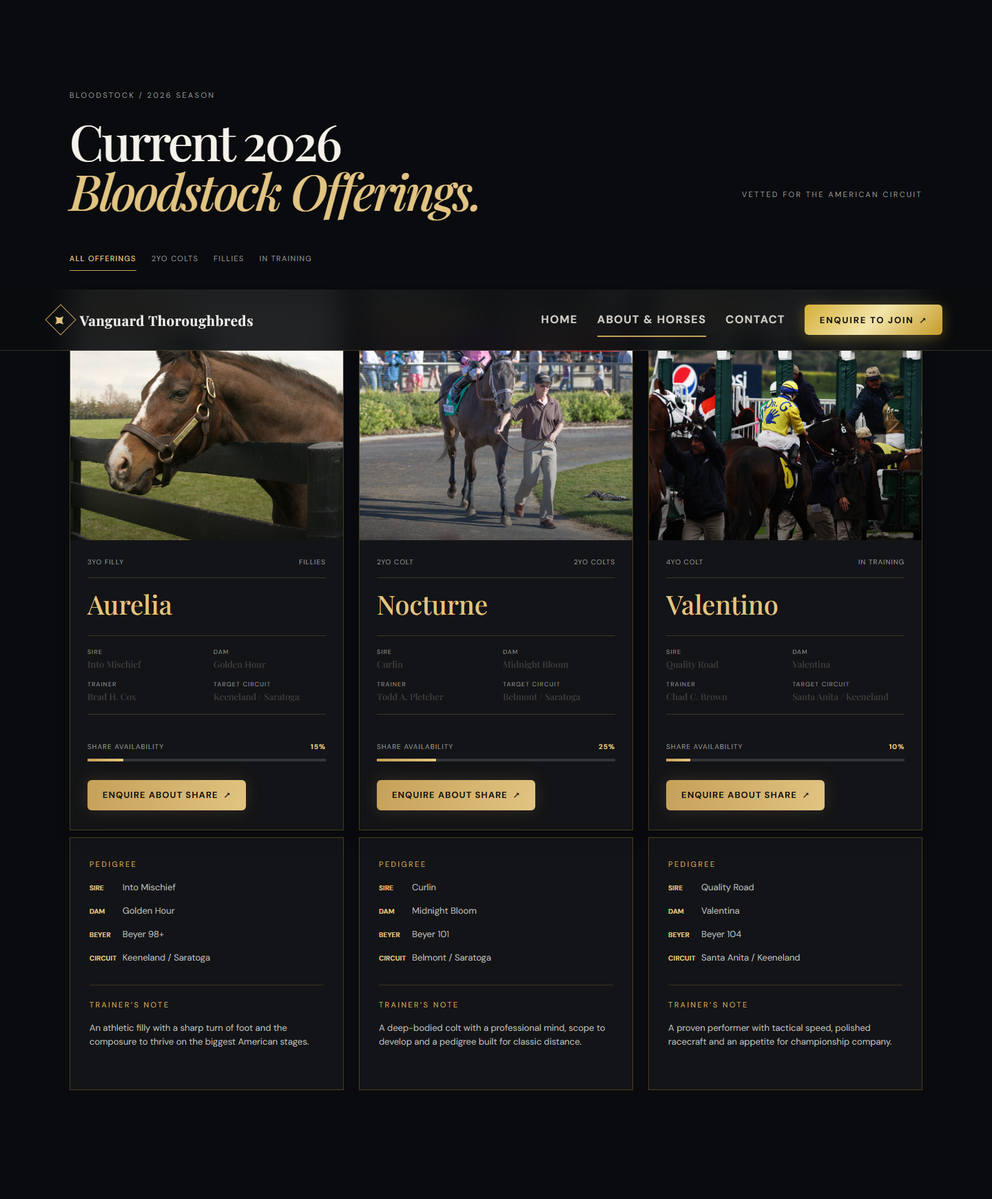
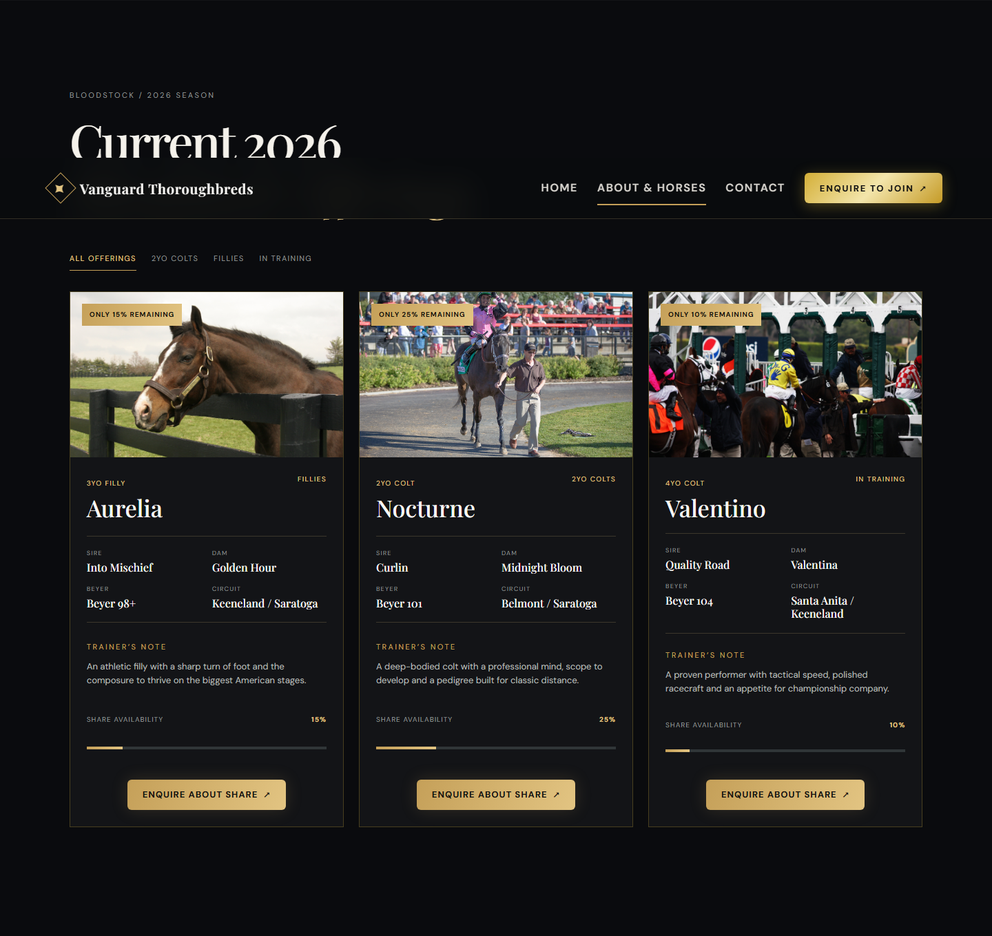
Fix About horse cards and add smart contact intent flow

diff --git a/contact.html b/contact.html
@@ -2,10 +2,15 @@
 <html lang="en">
 <head><meta charset="utf-8"><meta name="viewport" content="width=device-width, initial-scale=1"><title>Private Prospectus — Vanguard Thoroughbreds</title><meta name="description" content="Request a private Vanguard Thoroughbreds syndicate prospectus."><link rel="preconnect" href="https://fonts.googleapis.com"><link rel="preconnect" href="https://fonts.gstatic.com" crossorigin><link href="https://fonts.googleapis.com/css2?family=DM+Sans:wght@400;500;600&family=Playfair+Display:ital,wght@0,500;1,500&display=swap" rel="stylesheet"><link rel="stylesheet" href="styles.css"><link rel="stylesheet" href="styles-enhancements.css"></head>
 <body data-page="contact">
-<nav class="nav"><a class="logo" href="index.html"><span class="logo-mark"><span>✦</span></span><span data-brand>Vanguard Thoroughbreds</span></a><div class="nav-links"><a href="index.html">Home</a><a href="about.html">About & Horses</a><a class="active" aria-current="page" href="contact.html">Contact</a><a class="button" href="contact.html">Enquire to Join <span>↗</span></a></div></nav>
-<main class="contact-layout"><section class="contact-copy"><p class="eyebrow">The private concierge</p><h1>Request Your Private<br><em>Syndicate Prospectus.</em></h1><p>Tell us what you are looking for. A member of the Vanguard team will reply personally, usually within one working day.</p><div class="contact-details"><p><span>Email</span><a data-email></a></p><p><span>Telephone</span><a data-phone></a></p><p><span>By appointment</span><span data-location></span></p></div><div class="contact-hero"><img data-contact-hero alt="Thoroughbred in the stable yard" loading="eager"></div><div class="membership-panel"><p class="eyebrow">Private membership tiers</p><div class="membership-grid"><article><strong>5%</strong><span>Entry Partner</span><small>Paddock credentials · Monthly reports</small></article><article class="featured"><strong>10%</strong><span>Classic Partner</span><small>Morning works · Trainer briefings</small></article><article><strong>25%</strong><span>Principal Partner</span><small>Breeding rights · Private access</small></article></div></div><div class="viewings"><p class="eyebrow">Private stable viewing</p><div><span>KEENELAND</span><strong>APR 18–20 · 7:00 AM</strong></div><div><span>SARATOGA SPRINGS</span><strong>JUL 22–24 · BY APPOINTMENT</strong></div></div><div class="faq"><h2>Questions, answered.</h2><div data-faqs></div></div></section>
-<section class="form-card"><p class="eyebrow">Start your ownership story</p><h2>Request your prospectus</h2><form id="enquiry-form" method="POST" novalidate><input type="hidden" name="_subject" value="New Vanguard Thoroughbreds prospectus request"><div class="form-grid"><div class="field"><label for="name">Full name</label><input id="name" name="name" autocomplete="name" required></div><div class="field"><label for="email">Email address</label><input id="email" name="email" type="email" autocomplete="email" required></div></div><div class="field"><label for="phone">Phone number</label><input id="phone" name="phone" type="tel" autocomplete="tel" required></div><div class="field"><label for="share">Preferred share size</label><select id="share" name="share" required><option value="">Select a share tier</option><option>5% — Entry</option><option>10% — Classic</option><option>25% — Principal</option></select></div><div class="field"><label for="interest">Horse of interest</label><select id="interest" name="interest" data-horse-options required></select></div><button class="submit" type="submit">Send private enquiry <span>↗</span></button><p class="status" id="form-status" role="status"></p><p class="fine-print">Your details are treated with complete discretion.</p></form></section></main>
+<nav class="nav"><a class="logo" href="index.html"><span class="logo-mark"><span>✦</span></span><span data-brand>Vanguard Thoroughbreds</span></a><div class="nav-links"><a href="index.html">Home</a><a href="about.html">About & Horses</a><a class="active" aria-current="page" href="contact.html">Contact</a><a class="button" href="contact.html?intent=join">Enquire to Join <span>↗</span></a></div></nav>
+<main class="contact-layout"><section class="contact-copy"><p class="eyebrow" data-contact-eyebrow>The private concierge</p><h1 data-contact-headline>Request Your Private<br><em>Syndicate Prospectus.</em></h1><p data-contact-intro>Tell us what you are looking for. A member of the Vanguard team will reply personally, usually within one working day.</p><div class="contact-details"><p><span>Email</span><a data-email></a></p><p><span>Telephone</span><a data-phone></a></p><p><span>By appointment</span><span data-location></span></p></div><div class="contact-hero"><img data-contact-hero alt="Thoroughbred in the stable yard" loading="eager"></div><div class="membership-panel"><p class="eyebrow">Private membership tiers</p><div class="membership-grid"><article><strong>5%</strong><span>Entry Partner</span><small>Paddock credentials · Monthly reports</small></article><article class="featured"><strong>10%</strong><span>Classic Partner</span><small>Morning works · Trainer briefings</small></article><article><strong>25%</strong><span>Principal Partner</span><small>Breeding rights · Private access</small></article></div></div><div class="viewings"><p class="eyebrow">Private stable viewing</p><div><span>KEENELAND</span><strong>APR 18–20 · 7:00 AM</strong></div><div><span>SARATOGA SPRINGS</span><strong>JUL 22–24 · BY APPOINTMENT</strong></div></div><div class="faq"><h2>Questions, answered.</h2><div data-faqs></div></div></section>
+<section class="form-card"><div class="join-selector" data-join-selector hidden><p class="eyebrow">Step 1: Select Share Tier &amp; Bloodstock</p><div class="join-options"><button type="button" data-tier="5% Share — $12,500">5% Share — $12,500</button><button type="button" data-tier="10% Share — $25,000">10% Share — $25,000</button><button type="button" data-tier="25% Share — $62,500">25% Share — $62,500</button></div></div><p class="eyebrow">Start your ownership story</p><h2 data-form-heading>Request your prospectus</h2><form id="enquiry-form" method="POST" novalidate><input type="hidden" name="_subject" value="New Vanguard Thoroughbreds prospectus request"><div class="form-grid"><div class="field"><label for="name">Full name</label><input id="name" name="name" autocomplete="name" required></div><div class="field"><label for="email">Email address</label><input id="email" name="email" type="email" autocomplete="email" required></div></div><div class="field"><label for="phone">Phone number</label><input id="phone" name="phone" type="tel" autocomplete="tel" required></div><div class="field"><label for="share">Preferred share size</label><select id="share" name="share" required><option value="">Select a share tier</option><option value="5% — $12,500">5% — $12,500</option><option value="10% — $25,000">10% — $25,000</option><option value="25% — $62,500">25% — $62,500</option></select></div><div class="field"><label for="interest">Horse of interest</label><select id="interest" name="interest" data-horse-options required></select></div><button class="submit" type="submit">Send private enquiry <span>↗</span></button><p class="status" id="form-status" role="status"></p><p class="fine-print">Your details are treated with complete discretion.</p></form></section></main>
 <footer class="footer"><span>© 2026 <span data-brand>Vanguard Thoroughbreds</span></span><span>Ownership, elevated.</span><a href="index.html">Return home ↗</a></footer>
 <script src="site-content.js"></script><script>
-const config=window.SYNDICATE_CONFIG,form=document.getElementById("enquiry-form"),status=document.getElementById("form-status"),interest=document.getElementById("interest"),horse=new URLSearchParams(location.search).get("horse");if(horse)interest.value=horse;form.action=`https://formsubmit.co/${config.contact.email}`;form.addEventListener("submit",(event)=>{event.preventDefault();status.className="status";const empty=[...form.querySelectorAll("[required]")].find((field)=>!field.value.trim()),email=document.getElementById("email");if(empty){status.textContent=`Please add your ${empty.labels[0].textContent.toLowerCase()}.`;status.classList.add("error");empty.focus();return;}if(!/^[^\s@]+@[^\s@]+\.[^\s@]+$/.test(email.value)){status.textContent="Please enter a valid email address.";status.classList.add("error");email.focus();return;}status.textContent="Sending your private enquiry…";fetch(form.action,{method:"POST",body:new FormData(form),headers:{Accept:"application/json"}}).then((response)=>{if(!response.ok)throw new Error("Unable to send");status.textContent="Thank you — your enquiry is on its way.";status.classList.add("success");form.reset();}).catch(()=>{const data=[...new FormData(form)].map(([key,value])=>`${key}: ${value}`).join("%0A");window.location.href=`mailto:${config.contact.email}?subject=New enquiry from ${encodeURIComponent(document.getElementById("name").value)}&body=${data}`;status.textContent="Opening your email app to complete the enquiry.";status.classList.add("success");});});
+const config=window.SYNDICATE_CONFIG,form=document.getElementById("enquiry-form"),status=document.getElementById("form-status"),interest=document.getElementById("interest"),params=new URLSearchParams(location.search),isJoin=params.get("intent")==="join",horse=params.get("horse"),navContact=document.querySelector('.nav a[href="contact.html"]'),joinSelector=document.querySelector("[data-join-selector]"),share=document.getElementById("share"),formHeading=document.querySelector("[data-form-heading]"),eyebrow=document.querySelector("[data-contact-eyebrow]"),headline=document.querySelector("[data-contact-headline]"),intro=document.querySelector("[data-contact-intro]"),submit=form.querySelector(".submit");
+if(isJoin){navContact.classList.remove("active");navContact.removeAttribute("aria-current");document.querySelector(".nav .button").classList.add("join-active");joinSelector.hidden=false;eyebrow.textContent="2026 Syndicate Admissions";headline.innerHTML="Apply for Syndicate<br><em>Ownership.</em>";intro.textContent="Select your share tier and bloodstock preference, then submit your private ownership application.";formHeading.textContent="Ownership application";submit.innerHTML="Submit ownership application <span>↗</span>";}
+if(horse)interest.value=horse;
+form.action=`https://formsubmit.co/${config.contact.email}`;
+joinSelector.querySelectorAll("[data-tier]").forEach((button)=>button.addEventListener("click",()=>{joinSelector.querySelectorAll("[data-tier]").forEach((item)=>item.classList.remove("selected"));button.classList.add("selected");const value=button.dataset.tier;share.value=value.split(" Share")[0]+" — "+value.split("— ")[1];}));
+form.addEventListener("submit",(event)=>{event.preventDefault();status.className="status";const empty=[...form.querySelectorAll("[required]")].find((field)=>!field.value.trim()),email=document.getElementById("email");if(empty){status.textContent=`Please add your ${empty.labels[0].textContent.toLowerCase()}.`;status.classList.add("error");empty.focus();return;}if(!/^[^\s@]+@[^\s@]+\.[^\s@]+$/.test(email.value)){status.textContent="Please enter a valid email address.";status.classList.add("error");email.focus();return;}status.textContent="Sending your private enquiry…";fetch(form.action,{method:"POST",body:new FormData(form),headers:{Accept:"application/json"}}).then((response)=>{if(!response.ok)throw new Error("Unable to send");status.textContent="Thank you — your enquiry is on its way.";status.classList.add("success");form.reset();}).catch(()=>{const data=[...new FormData(form)].map(([key,value])=>`${key}: ${value}`).join("%0A");window.location.href=`mailto:${config.contact.email}?subject=New enquiry from ${encodeURIComponent(document.getElementById("name").value)}&body=${data}`;status.textContent="Opening your email app to complete the enquiry.";status.classList.add("success");});});
 </script></body></html>

diff --git a/index.html b/index.html
@@ -3,9 +3,9 @@
 <head><meta charset="utf-8"><meta name="viewport" content="width=device-width, initial-scale=1"><title>Vanguard Thoroughbreds — Command the Rail.</title><meta name="description" content="Direct fractional ownership in elite Grade-1 caliber Thoroughbreds with Vanguard Thoroughbreds."><link rel="stylesheet" href="styles.css"></head>
 <body class="intro-active" data-page="home">
 <div id="race-intro-overlay" aria-label="Vanguard 2026 race introduction"><canvas id="race-canvas"></canvas><div class="intro-grid"></div><div class="intro-wordmark">VANGUARD</div><div class="intro-label">VANGUARD THOROUGHBREDS / 2026</div><button class="intro-button" id="skip-intro">Skip</button><div class="finish-line"><span>PHOTO FINISH<br>// VANGUARD 2026</span></div><div class="race-horse-trail"></div><div class="race-horse-shell"><img class="race-horse" src="images/golden-jockey-horse.png" alt="" aria-hidden="true"></div><div class="intro-telemetry">SPEED: 41.8 MPH&nbsp;&nbsp; | &nbsp;&nbsp;STRIDE: 24.6 FT&nbsp;&nbsp; | &nbsp;&nbsp;FINISH: 1ST</div></div>
-<nav class="site-nav"><a class="brand-lockup" href="index.html"><span class="crest"><span class="crest-mark">V</span></span><span class="brand-name" data-brand>Vanguard Thoroughbreds</span></a><div class="nav-links"><a class="active" href="index.html">Home</a><a href="about.html">About & Horses</a><a href="contact.html">Contact</a><a class="nav-cta" href="contact.html">Enquire to Join <span>↗</span></a></div></nav>
+<nav class="site-nav"><a class="brand-lockup" href="index.html"><span class="crest"><span class="crest-mark">V</span></span><span class="brand-name" data-brand>Vanguard Thoroughbreds</span></a><div class="nav-links"><a class="active" href="index.html">Home</a><a href="about.html">About & Horses</a><a href="contact.html">Contact</a><a class="nav-cta" href="contact.html?intent=join">Enquire to Join <span>↗</span></a></div></nav>
 <main>
-<section class="hero"><div class="hero-copy"><span class="status-pill">2026 Syndicate Shares Live</span><h1 data-home-headline>Command the Rail.<br><em>Own the Legacy.</em></h1><p class="intro" data-home-intro>Direct fractional ownership in elite Grade-1 caliber Thoroughbreds. Curated bloodlines, Hall-of-Fame trainers, and full paddock-to-winner's-circle access.</p><div class="hero-actions"><a class="button" href="contact.html">Enquire to Join <span>↗</span></a><a class="outline-button" href="#command">Enter Command Dashboard <span>↓</span></a></div></div><div class="hero-visual"><div class="hero-frame"><img data-hero-image src="images/hero-racehorse.jpg" alt="Thoroughbred racehorses in competition" loading="eager"></div><div class="glass-card glass-one"><strong>Grade 1</strong><span>Bloodlines</span></div><div class="glass-card glass-two"><strong>84%</strong><span>Win / place strike rate</span></div><div class="glass-card glass-three"><strong>Direct</strong><span>Trainer access</span></div></div></section>
+<section class="hero"><div class="hero-copy"><span class="status-pill">2026 Syndicate Shares Live</span><h1 data-home-headline>Command the Rail.<br><em>Own the Legacy.</em></h1><p class="intro" data-home-intro>Direct fractional ownership in elite Grade-1 caliber Thoroughbreds. Curated bloodlines, Hall-of-Fame trainers, and full paddock-to-winner's-circle access.</p><div class="hero-actions"><a class="button" href="contact.html?intent=join">Enquire to Join <span>↗</span></a><a class="outline-button" href="#command">Enter Command Dashboard <span>↓</span></a></div></div><div class="hero-visual"><div class="hero-frame"><img data-hero-image src="images/hero-racehorse.jpg" alt="Thoroughbred racehorses in competition" loading="eager"></div><div class="glass-card glass-one"><strong>Grade 1</strong><span>Bloodlines</span></div><div class="glass-card glass-two"><strong>84%</strong><span>Win / place strike rate</span></div><div class="glass-card glass-three"><strong>Direct</strong><span>Trainer access</span></div></div></section>
 <section class="metrics" data-metrics><div class="metric"><strong>18+</strong><span>Stakes performers</span></div><div class="metric"><strong>5–25%</strong><span>Flexible equity tiers</span></div><div class="metric"><strong>100%</strong><span>Transparent reporting</span></div><div class="metric"><strong>VIP</strong><span>Owners' enclosure access</span></div></section>
 <section class="section" id="command"><div class="section-heading"><div><p class="section-kicker">Live syndicate intelligence</p><h2>Command your<br><em>ownership position.</em></h2></div><p>Model your equity in real time across our 2026 bloodstock offerings. Select a horse, define your tier and see the economics.</p></div><div class="command-dashboard"><aside class="dashboard-sidebar"><p class="eyebrow">Portfolio selector</p><h3>Choose your asset</h3><span class="selector-label">Bloodstock</span><div class="selector-list" data-horse-select><button class="selector selected" data-horse="Aurelia">Aurelia <small>3yo filly</small></button><button class="selector" data-horse="Nocturne">Nocturne <small>2yo colt</small></button><button class="selector" data-horse="Valentino">Valentino <small>4yo colt</small></button></div><span class="selector-label">Equity position</span><div class="selector-list"><button class="selector selected" data-tier="5">5% <small>Entry</small></button><button class="selector" data-tier="10">10% <small>Classic</small></button><button class="selector" data-tier="25">25% <small>Principal</small></button></div></aside><div class="dashboard-main"><div class="dash-header"><div><p>Selected asset / 2026 offering</p><h3 data-dash-name>Aurelia</h3></div><span class="status-pill">Live data</span></div><div class="kpi-grid"><div class="kpi"><span>Initial equity</span><strong data-kpi-cost>$12,500</strong><div class="kpi-bar"><i data-kpi-cost-bar></i></div></div><div class="kpi"><span>Monthly training & keep</span><strong data-kpi-keep>$225</strong><div class="kpi-bar"><i data-kpi-keep-bar></i></div></div><div class="kpi"><span>Purse distribution</span><strong data-kpi-prize>5%</strong><div class="kpi-bar"><i data-kpi-prize-bar></i></div></div><div class="kpi"><span>Speed rating</span><strong data-kpi-speed>Beyer 98+</strong><div class="kpi-bar"><i data-kpi-speed-bar></i></div></div><div class="kpi wide"><span>Owner privileges</span><div class="perks"><span class="perk">Paddock badges</span><span class="perk">Morning works access</span><span class="perk">Breeding rights</span><span class="perk">Trainer briefings</span></div></div></div></div></div></section>
 <section class="section dark-panel"><div class="section-heading"><div><p class="section-kicker">Current 2026 bloodstock offerings</p><h2>Championship Pedigrees.<br><em>Institutional Transparency.</em></h2></div><a class="outline-button" href="about.html">View full catalogue <span>↗</span></a></div><div class="bloodstock-grid" data-home-horses></div></section>

diff --git a/styles-enhancements.css b/styles-enhancements.css
@@ -65,5 +65,25 @@ body[data-page="about"] footer.footer{position:relative !important;clear:both !i
 body[data-page="contact"] main.contact-layout{margin-top:110px !important;padding-top:32px !important}
 body[data-page="contact"] .contact-hero{height:auto;max-height:none}
 body[data-page="contact"] .contact-hero img{width:100% !important;height:auto !important;max-height:none !important;object-fit:cover !important}
+body[data-page="about"] .about-horse-card{height:100%;display:flex;flex-direction:column;justify-content:space-between;padding:0;overflow:visible;background:rgba(255,255,255,.04);border:1px solid rgba(212,175,55,.28)}
+body[data-page="about"] .about-horse-image{position:relative;height:240px;width:100%;overflow:visible}
+body[data-page="about"] .about-horse-image img{display:block;width:100%;height:240px;object-fit:cover}
+body[data-page="about"] .about-horse-content{display:flex;flex:1;flex-direction:column;justify-content:space-between;gap:18px;padding:24px}
+body[data-page="about"] .about-horse-heading{display:flex;align-items:flex-start;justify-content:space-between;gap:12px}
+body[data-page="about"] .about-horse-heading h3{margin:8px 0 0;color:var(--warm-white);font:500 34px/1.05 var(--serif)}
+body[data-page="about"] .about-horse-category,body[data-page="about"] .about-horse-class{color:var(--champagne);font-size:10px;letter-spacing:.14em;text-transform:uppercase}
+body[data-page="about"] .about-pedigree{display:grid;grid-template-columns:1fr 1fr;gap:16px;padding:18px 0;border-top:1px solid var(--line);border-bottom:1px solid var(--line)}
+body[data-page="about"] .about-pedigree span{display:flex;flex-direction:column;gap:5px;color:var(--warm-white);font:16px/1.2 var(--serif)}
+body[data-page="about"] .about-pedigree b{color:var(--muted);font:9px var(--sans);letter-spacing:.14em;text-transform:uppercase}
+body[data-page="about"] .about-trainer-note p{margin:8px 0 0;color:#b7bbb7;font-size:13px;line-height:1.55}
+body[data-page="about"] .about-horse-card .card-button{margin-top:0}
+body[data-page="contact"] .join-active{box-shadow:0 0 0 2px #FFF6CC,0 6px 24px rgba(212,175,55,.55)}
+nav a.button::before,nav a.button::after,nav a.button:hover::before,nav a.button:hover::after,nav a.button:focus::before,nav a.button:focus::after,nav a.button:active::before,nav a.button:active::after,.nav-cta::before,.nav-cta::after,.nav-cta:hover::before,.nav-cta:hover::after,.nav-cta:focus::before,.nav-cta:focus::after,.nav-cta:active::before,.nav-cta:active::after{content:none !important;display:none !important;width:0 !important;height:0 !important}
+nav a.button,.nav-cta{text-decoration:none !important}
+nav a.button:hover,.nav-cta:hover{filter:brightness(1.08);transform:translateY(-1px)}
+body[data-page="contact"] .join-selector{margin-bottom:28px;padding-bottom:24px;border-bottom:1px solid rgba(212,175,55,.28)}
+body[data-page="contact"] .join-options{display:grid;grid-template-columns:repeat(3,1fr);gap:10px}
+body[data-page="contact"] .join-options button{min-height:52px;padding:10px;border:1px solid rgba(212,175,55,.35);color:var(--warm-white);background:rgba(212,175,55,.08);cursor:pointer;font-size:11px;font-weight:700}
+body[data-page="contact"] .join-options button:hover,body[data-page="contact"] .join-options button.selected{color:#0A0B0E;background:var(--champagne)}
 .form-card h2{color:#F5F2EB}.field input,.field select{color:#F5F2EB;border-color:rgba(212,175,55,.35)}.field select option{color:#111;background:#F5F2EB}
 @media(max-width:760px){.horse-showcase{display:block}.horse-showcase-item{margin-bottom:28px}.membership-grid{grid-template-columns:1fr}.viewings>div{display:block}.viewings>div strong{display:block;margin-top:5px;text-align:left}}

diff --git a/styles.css b/styles.css
@@ -217,3 +217,51 @@ body[data-page="contact"] .contact-hero img {
   max-height: none !important;
   object-fit: cover !important;
 }
+body[data-page="about"] .about-horse-card {
+  height: 100%; display: flex; flex-direction: column; justify-content: space-between;
+  padding: 0; overflow: visible; background: rgba(255,255,255,.04);
+  border: 1px solid rgba(212,175,55,.28);
+}
+body[data-page="about"] .about-horse-image {
+  position: relative; height: 240px; width: 100%; overflow: visible;
+}
+body[data-page="about"] .about-horse-image img {
+  display: block; width: 100%; height: 240px; object-fit: cover;
+}
+body[data-page="about"] .about-horse-content {
+  display: flex; flex: 1; flex-direction: column; justify-content: space-between;
+  gap: 18px; padding: 24px;
+}
+body[data-page="about"] .about-horse-heading {
+  display: flex; align-items: flex-start; justify-content: space-between; gap: 12px;
+}
+body[data-page="about"] .about-horse-heading h3 {
+  margin: 8px 0 0; color: var(--warm-white); font: 500 34px/1.05 var(--serif);
+}
+body[data-page="about"] .about-horse-category,
+body[data-page="about"] .about-horse-class {
+  color: var(--champagne); font-size: 10px; letter-spacing: .14em; text-transform: uppercase;
+}
+body[data-page="about"] .about-pedigree {
+  display: grid; grid-template-columns: 1fr 1fr; gap: 16px;
+  padding: 18px 0; border-top: 1px solid var(--line); border-bottom: 1px solid var(--line);
+}
+body[data-page="about"] .about-pedigree span { display: flex; flex-direction: column; gap: 5px; color: var(--warm-white); font: 16px/1.2 var(--serif); }
+body[data-page="about"] .about-pedigree b { color: var(--muted); font: 9px var(--sans); letter-spacing: .14em; text-transform: uppercase; }
+body[data-page="about"] .about-trainer-note p { margin: 8px 0 0; color: #b7bbb7; font-size: 13px; line-height: 1.55; }
+body[data-page="about"] .about-horse-card .card-button { margin-top: 0; }
+body[data-page="contact"] .join-active {
+  box-shadow: 0 0 0 2px #FFF6CC, 0 6px 24px rgba(212,175,55,.55);
+}
+nav a.button::before, nav a.button::after, nav a.button:hover::before, nav a.button:hover::after,
+nav a.button:focus::before, nav a.button:focus::after, nav a.button:active::before, nav a.button:active::after,
+.nav-cta::before, .nav-cta::after, .nav-cta:hover::before, .nav-cta:hover::after,
+.nav-cta:focus::before, .nav-cta:focus::after, .nav-cta:active::before, .nav-cta:active::after {
+  content: none !important; display: none !important; width: 0 !important; height: 0 !important;
+}
+nav a.button, .nav-cta { text-decoration: none !important; }
+nav a.button:hover, .nav-cta:hover { filter: brightness(1.08); transform: translateY(-1px); }
+body[data-page="contact"] .join-selector { margin-bottom: 28px; padding-bottom: 24px; border-bottom: 1px solid rgba(212,175,55,.28); }
+body[data-page="contact"] .join-options { display: grid; grid-template-columns: repeat(3, 1fr); gap: 10px; }
+body[data-page="contact"] .join-options button { min-height: 52px; padding: 10px; border: 1px solid rgba(212,175,55,.35); color: var(--warm-white); background: rgba(212,175,55,.08); cursor: pointer; font-size: 11px; font-weight: 700; }
+body[data-page="contact"] .join-options button:hover, body[data-page="contact"] .join-options button.selected { color: #0A0B0E; background: var(--champagne); }

diff --git a/site-content.js b/site-content.js
@@ -88,12 +88,18 @@ function horseCard(horse, config) {
 
 function renderHorseGrid(config) {
   const grid = document.querySelector("[data-horse-grid]");
-  grid.innerHTML = config.horses.map((horse) => `<div class="horse-showcase-item">${horseCard(horse, config)}<div class="horse-detail"><div><span class="eyebrow">Pedigree</span><p><strong>Sire</strong>${horse.sire}</p><p><strong>Dam</strong>${horse.dam}</p><p><strong>Beyer</strong>${horse.speed}</p><p><strong>Circuit</strong>${horse.circuit}</p></div><div><span class="eyebrow">Trainer’s note</span><p>${horse.note}</p></div></div></div>`).join("");
+  grid.innerHTML = config.horses.map((horse) => `<article class="about-horse-card" data-category="${horse.category}">
+    <div class="about-horse-image"><img src="${config.images.horses[horse.image]}" alt="${horse.name}, ${horse.pedigree}" loading="eager"><span class="availability">${horse.availability}</span></div>
+    <div class="about-horse-content"><div class="about-horse-heading"><div><span class="about-horse-category">${horse.age}</span><h3>${horse.name}</h3></div><span class="about-horse-class">${horse.category}</span></div>
+    <div class="about-pedigree"><span><b>Sire</b>${horse.sire}</span><span><b>Dam</b>${horse.dam}</span><span><b>Beyer</b>${horse.speed}</span><span><b>Circuit</b>${horse.circuit}</span></div>
+    <div class="about-trainer-note"><span class="eyebrow">Trainer’s note</span><p>${horse.note}</p></div>
+    <div class="share-row"><span>Share availability</span><strong>${horse.remaining}%</strong></div><div class="progress"><span style="width:${horse.remaining}%"></span></div>
+    <a class="button dark card-button" href="contact.html?intent=join&horse=${encodeURIComponent(horse.name)}">Enquire about share <span>↗</span></a></div>
+  </article>`).join("");
   document.querySelectorAll("[data-filter]").forEach((button) => button.addEventListener("click", () => {
     document.querySelectorAll("[data-filter]").forEach((item) => item.classList.remove("active"));
     button.classList.add("active");
     const filter = button.dataset.filter;
-    document.querySelectorAll(".horse-card").forEach((card) => { card.hidden = filter !== "All" && card.dataset.category !== filter; });
-    document.querySelectorAll(".horse-showcase-item").forEach((item) => { item.hidden = filter !== "All" && item.querySelector(".horse-card").dataset.category !== filter; });
+    document.querySelectorAll(".about-horse-card").forEach((card) => { card.hidden = filter !== "All" && card.dataset.category !== filter; });
   }));
 }

diff --git a/about.html b/about.html
@@ -2,7 +2,7 @@
 <html lang="en">
 <head><meta charset="utf-8"><meta name="viewport" content="width=device-width, initial-scale=1"><title>About & Upcoming Horses — Vanguard Thoroughbreds</title><meta name="description" content="Discover Vanguard Thoroughbreds' heritage, bloodstock philosophy and upcoming horses."><link rel="preconnect" href="https://fonts.googleapis.com"><link rel="preconnect" href="https://fonts.gstatic.com" crossorigin><link href="https://fonts.googleapis.com/css2?family=DM+Sans:wght@400;500;600&family=Playfair+Display:ital,wght@0,500;1,500&display=swap" rel="stylesheet"><link rel="stylesheet" href="styles.css"><link rel="stylesheet" href="styles-enhancements.css"></head>
 <body data-page="about">
-<nav class="nav"><a class="logo" href="index.html"><span class="logo-mark"><span>✦</span></span><span data-brand>Vanguard Thoroughbreds</span></a><div class="nav-links"><a href="index.html">Home</a><a class="active" aria-current="page" href="about.html">About & Horses</a><a href="contact.html">Contact</a><a class="button" href="contact.html">Enquire to Join <span>↗</span></a></div></nav>
+<nav class="nav"><a class="logo" href="index.html"><span class="logo-mark"><span>✦</span></span><span data-brand>Vanguard Thoroughbreds</span></a><div class="nav-links"><a href="index.html">Home</a><a class="active" aria-current="page" href="about.html">About & Horses</a><a href="contact.html">Contact</a><a class="button" href="contact.html?intent=join">Enquire to Join <span>↗</span></a></div></nav>
 <main><header class="page-head"><p class="eyebrow" data-about-eyebrow></p><h1 data-about-headline></h1></header>
 <section class="story"><div class="story-image"><img data-story-image alt="Thoroughbred horse in a paddock" loading="eager"></div><div class="story-copy"><h2 data-story-title></h2><p data-story-body></p></div></section>
 <section class="mission"><p class="eyebrow">Our mission</p><p data-mission></p></section>
